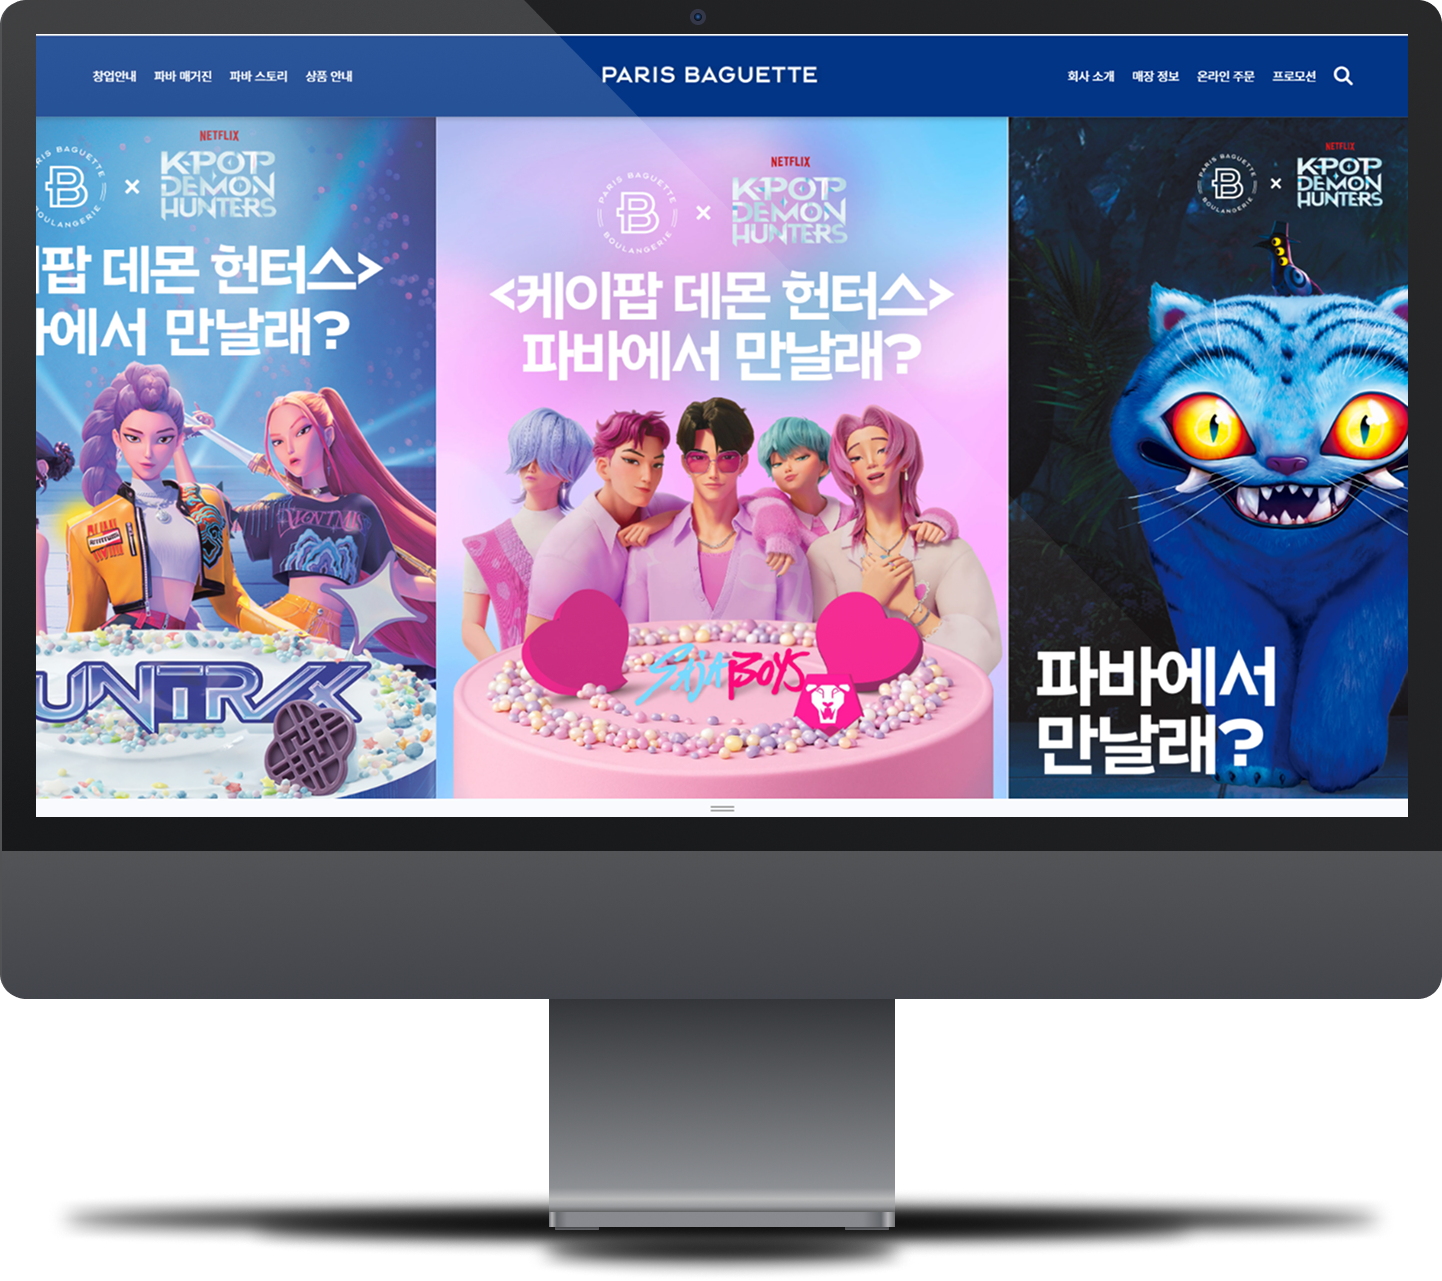
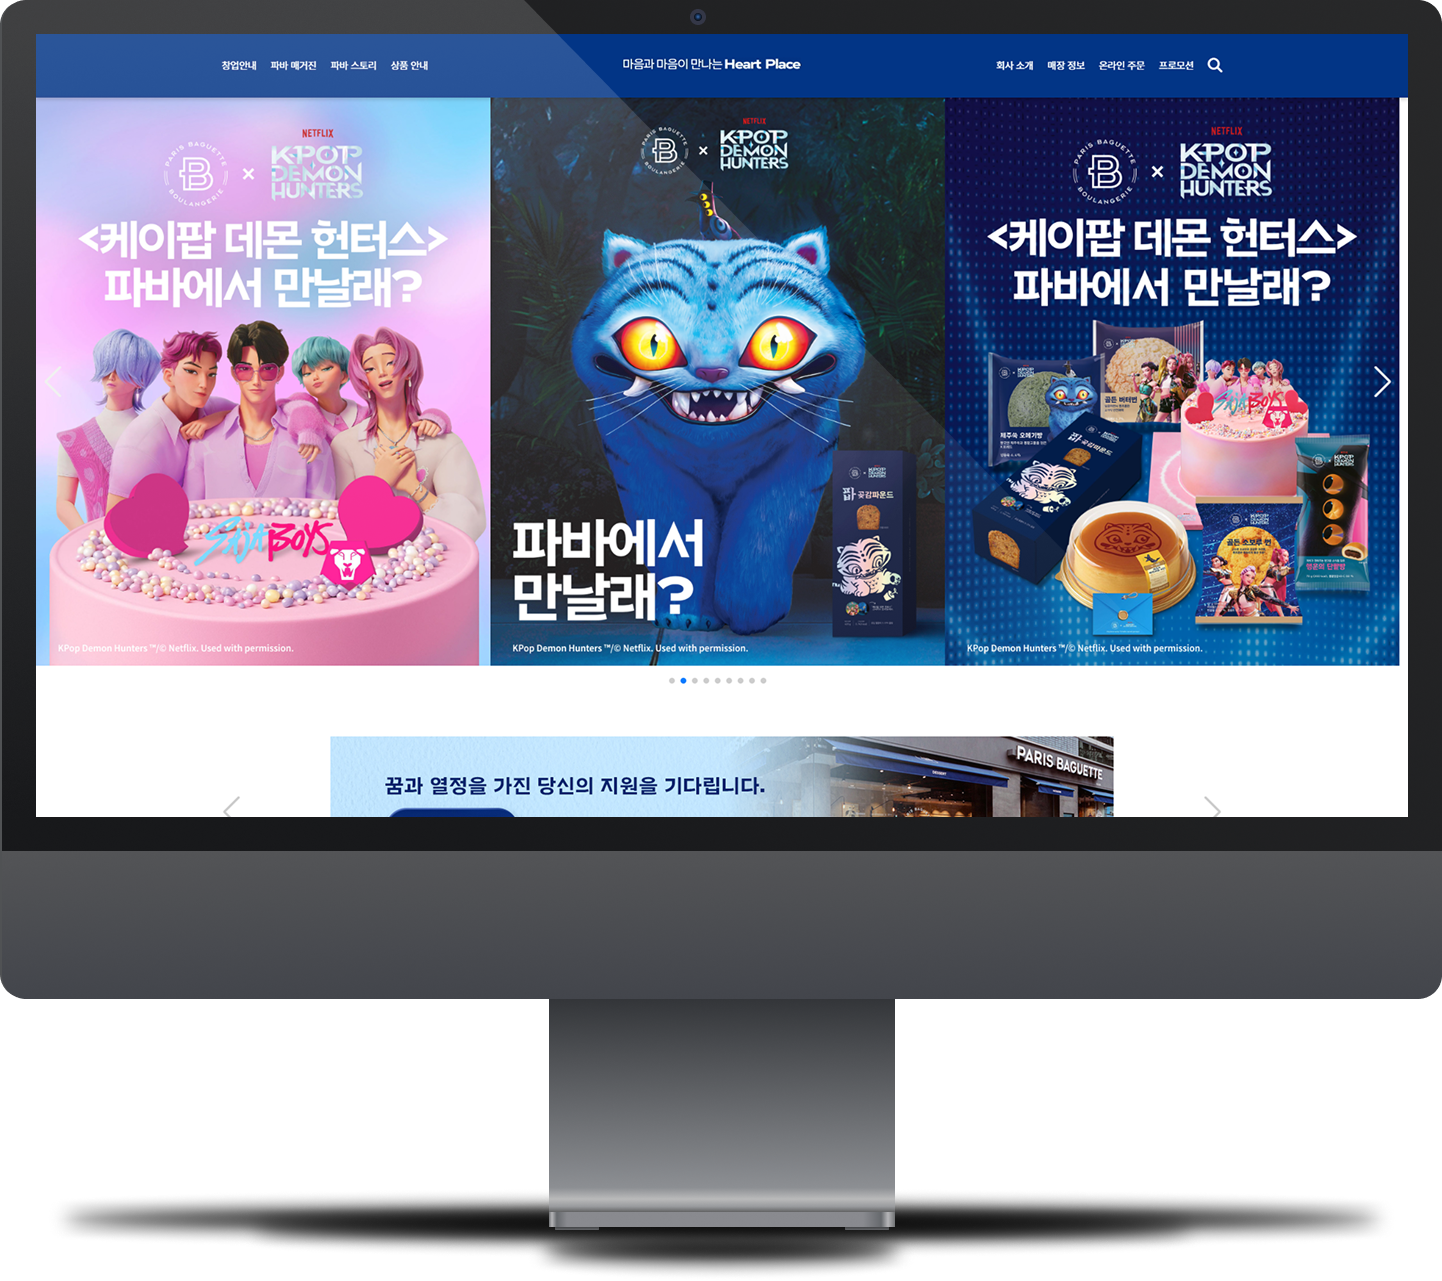
16:00

diff --git a/index.html b/index.html
@@ -168,37 +168,47 @@
       </div>
       <div class="section section3">
         <!-- Swiper -->
-        <div class="slide_con">
-          <div class="swiper mySwiper">
-            <div class="swiper-wrapper">
-              <div class="swiper-slide slide1">
-                <div class="slide_item">
-                  <h1>Qtandard</h1>
-                  <div class="img_wrap">
-                    <p class="mobile_bg">
-                      <img
-                        src="./images/qtandard_bg_m.jpg"
-                        alt="큐탠다드 모바일 배경"
-                      />
-                    </p>
-                    <p class="mockup_img">
-                      <img
-                        src="./images/qtandard_mac.png"
-                        alt="큐탠다드 맥북"
-                      />
-                    </p>
+        <div class="swiper mySwiper">
+          <div class="swiper-wrapper">
+            <div class="swiper-slide">
+              <div class="con con1">
+                <p>Qtandard</p>
+                <div class="con_item">
+                  <div class="mockup_img">
+                    <img src="./images/qtandard_mac.png" alt="큐탠다드" />
                   </div>
                   <div class="desc_txt">
-                    <p>Qtandard</p>
+                    <p class="desc_title">Clone Coding Project</p>
                     <p>Qtandard설명 어쩌구</p>
                     <p>button</p>
                   </div>
                 </div>
               </div>
             </div>
-            <div class="swiper-button-next"></div>
-            <div class="swiper-button-prev"></div>
+            <div class="swiper-slide">
+              <div class="con con2">
+                <p>PARIS BAGUETTE</p>
+                <div class="con_item">
+                  <div class="mockup_img">
+                    <img src="./images/paris_mac.png" alt="큐탠다드" />
+                  </div>
+                  <div class="desc_txt">
+                    <p>PARIS BAGUETTE</p>
+                    <p>Qtandard설명 어쩌구</p>
+                    <p>button</p>
+                  </div>
+                </div>
+              </div>
+            </div>
           </div>
+          <div class="swiper-button-next"></div>
+          <div class="swiper-button-prev"></div>
+        </div>
+      </div>
+      <div class="section section4 fp-auto-height">
+        <div>
+          <h1>CONTACT</h1>
+          <img src="./images/jq.png" alt="" />
         </div>
       </div>
     </div>

diff --git a/css/style.css b/css/style.css
@@ -283,61 +283,69 @@ body {
   margin-bottom: 2px;
   color: #777;
 }
-
-/* work 스와이퍼 슬라이드 */
-.swiper {
-  overflow: hidden;
+.section3 {
+  border: 1px solid #ddd;
 }
-.slide_con {
-  position: relative;
-  top: 10%;
+/* 슬라이드 */
+.swiper {
+  width: 100%;
+  max-width: 1200px;
+}
+.swiper .con {
+  margin-top: 3vw;
+  text-align: center;
+  border: 1px solid rgb(196, 226, 147);
   padding: 0 5%;
 }
-.slide_item {
-  height: 90vh;
-  border: 1px solid red;
+.con > p {
+  margin-top: 2vw;
+  font-size: 5vw;
+  text-transform: uppercase;
+  font-family: "DM Serif Text", serif;
+}
+.con1 > p {
+  color: #20cf70;
+}
+.con2 > p {
+  color: #023586;
+}
+/* .con > p > span {
+  font-size: 7vw;
+  -webkit-text-stroke: 4px #bb86fc;
+  color: transparent;
+  font-style: italic;
+} */
+.con_item {
+  display: flex;
+}
+.mockup_img {
+  max-width: 700px;
+}
+.mockup_img img {
+  width: 100%;
+  display: block;
+  object-fit: cover;
+}
+.desc_txt {
+  flex: 1;
   display: flex;
   flex-direction: column;
   align-items: center;
   justify-content: center;
-  position: relative;
 }
-
-.slide_con h1 {
-  font-size: clamp(70px, 5vw, 120px);
-  position: absolute;
-  top: 0;
-  line-height: 1.1;
-  text-align: center;
-  color: #ddd;
-  z-index: 1;
+.desc_txt > p.desc_title {
+  font-size: 1.2vw;
+  color: #20cf70;
+  margin-bottom: 1vw;
 }
-
-.mockup_img {
-  /* position: absolute; */
-  top: 100px;
-}
-.swiper-slide img {
-  width: 100%;
-  max-width: 900px;
-  object-fit: cover;
-}
-.mobile_bg {
-  width: 100%;
-  height: 600px;
-  display: none;
+.swiper-button-next,
+.swiper-button-prev {
+  top: 60%;
+  color: #bb86fc;
   opacity: 0.8;
+  background-color: rgba(0, 0, 0, 0.2);
 }
-.mobile_bg img {
-  width: 100%;
-  height: 100%;
-  object-fit: cover;
-
-  mask-image: linear-gradient(to bottom, rgba(0, 0, 0, 1), rgba(0, 0, 0, 0));
-  mask-repeat: no-repeat;
-  mask-size: cover;
-}
-.desc_txt {
-  text-align: center;
-  color: #fff;
+/* 섹션4 */
+.section4 > div {
+  background-color: thistle;
 }

diff --git a/css/media.css b/css/media.css
@@ -59,23 +59,37 @@
     align-items: center;
     padding: 5%;
   }
-  .slide_con {
-    top: 0;
+  /* 슬라이드 */
+  .con h1 {
+    /* margin: 1.2vw 0 2vw; */
+    font-size: 80px;
   }
-  .slide_item {
-    justify-content: space-between;
+  .con_item {
+    flex-direction: column;
   }
-  .img_wrap {
-    width: 100%;
+  .con > p {
+    margin-top: 2vw;
+    font-size: 7vw;
   }
-  .mobile_bg {
-    display: block;
+  .con > p > span {
+    font-size: 15vw;
+    -webkit-text-stroke: 2px #bb86fc;
   }
-  .mockup_img {
-    position: absolute;
-    top: 350px;
+  .desc_txt > p {
+    font-size: 5vw;
+    margin-bottom: 2vw;
   }
-  .slide_con h1 {
-    top: 150px;
+  .desc_txt > p.desc_title {
+    color: #20cf70;
+    margin-bottom: 1vw;
+  }
+  .swiper-button-next:after,
+  .swiper-button-prev:after {
+    font-size: 30px;
+  }
+  .swiper-button-next,
+  .swiper-button-prev {
+    top: 80%;
+    color: #bb86fc;
   }
 }

diff --git a/js/script.js b/js/script.js
@@ -43,6 +43,8 @@ animateImage(); // 애니메이션 시작
 //work 스와이퍼 슬라이드
 var swiper = new Swiper(".mySwiper", {
   slidesPerView: 1,
+  centeredSlides: true,
+  // loop: true,
   navigation: {
     nextEl: ".swiper-button-next",
     prevEl: ".swiper-button-prev",
